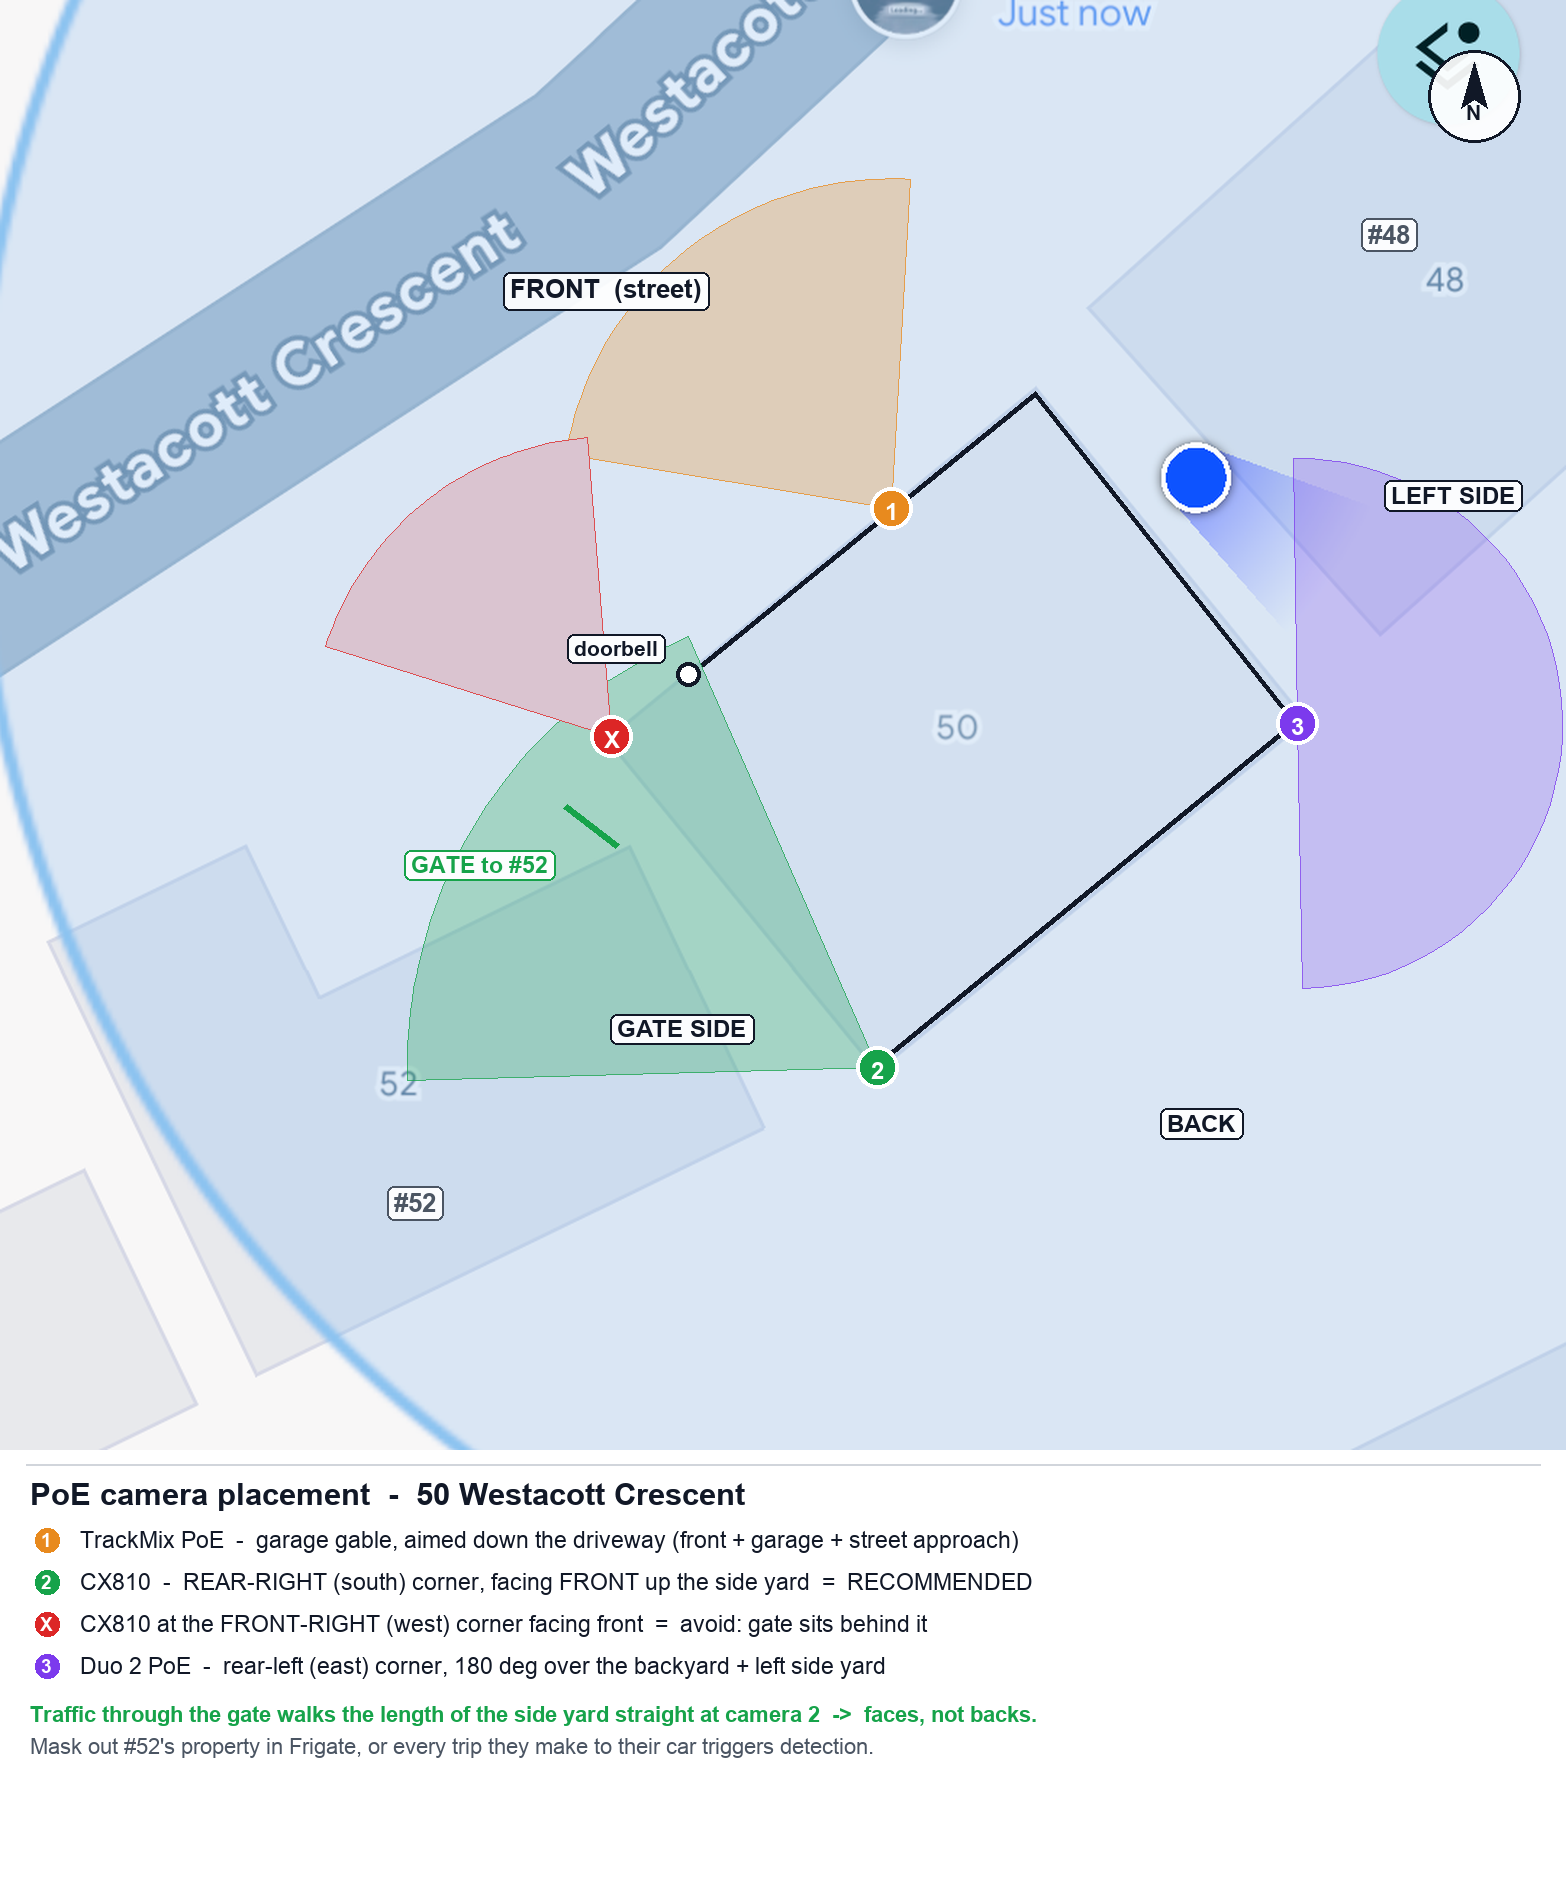
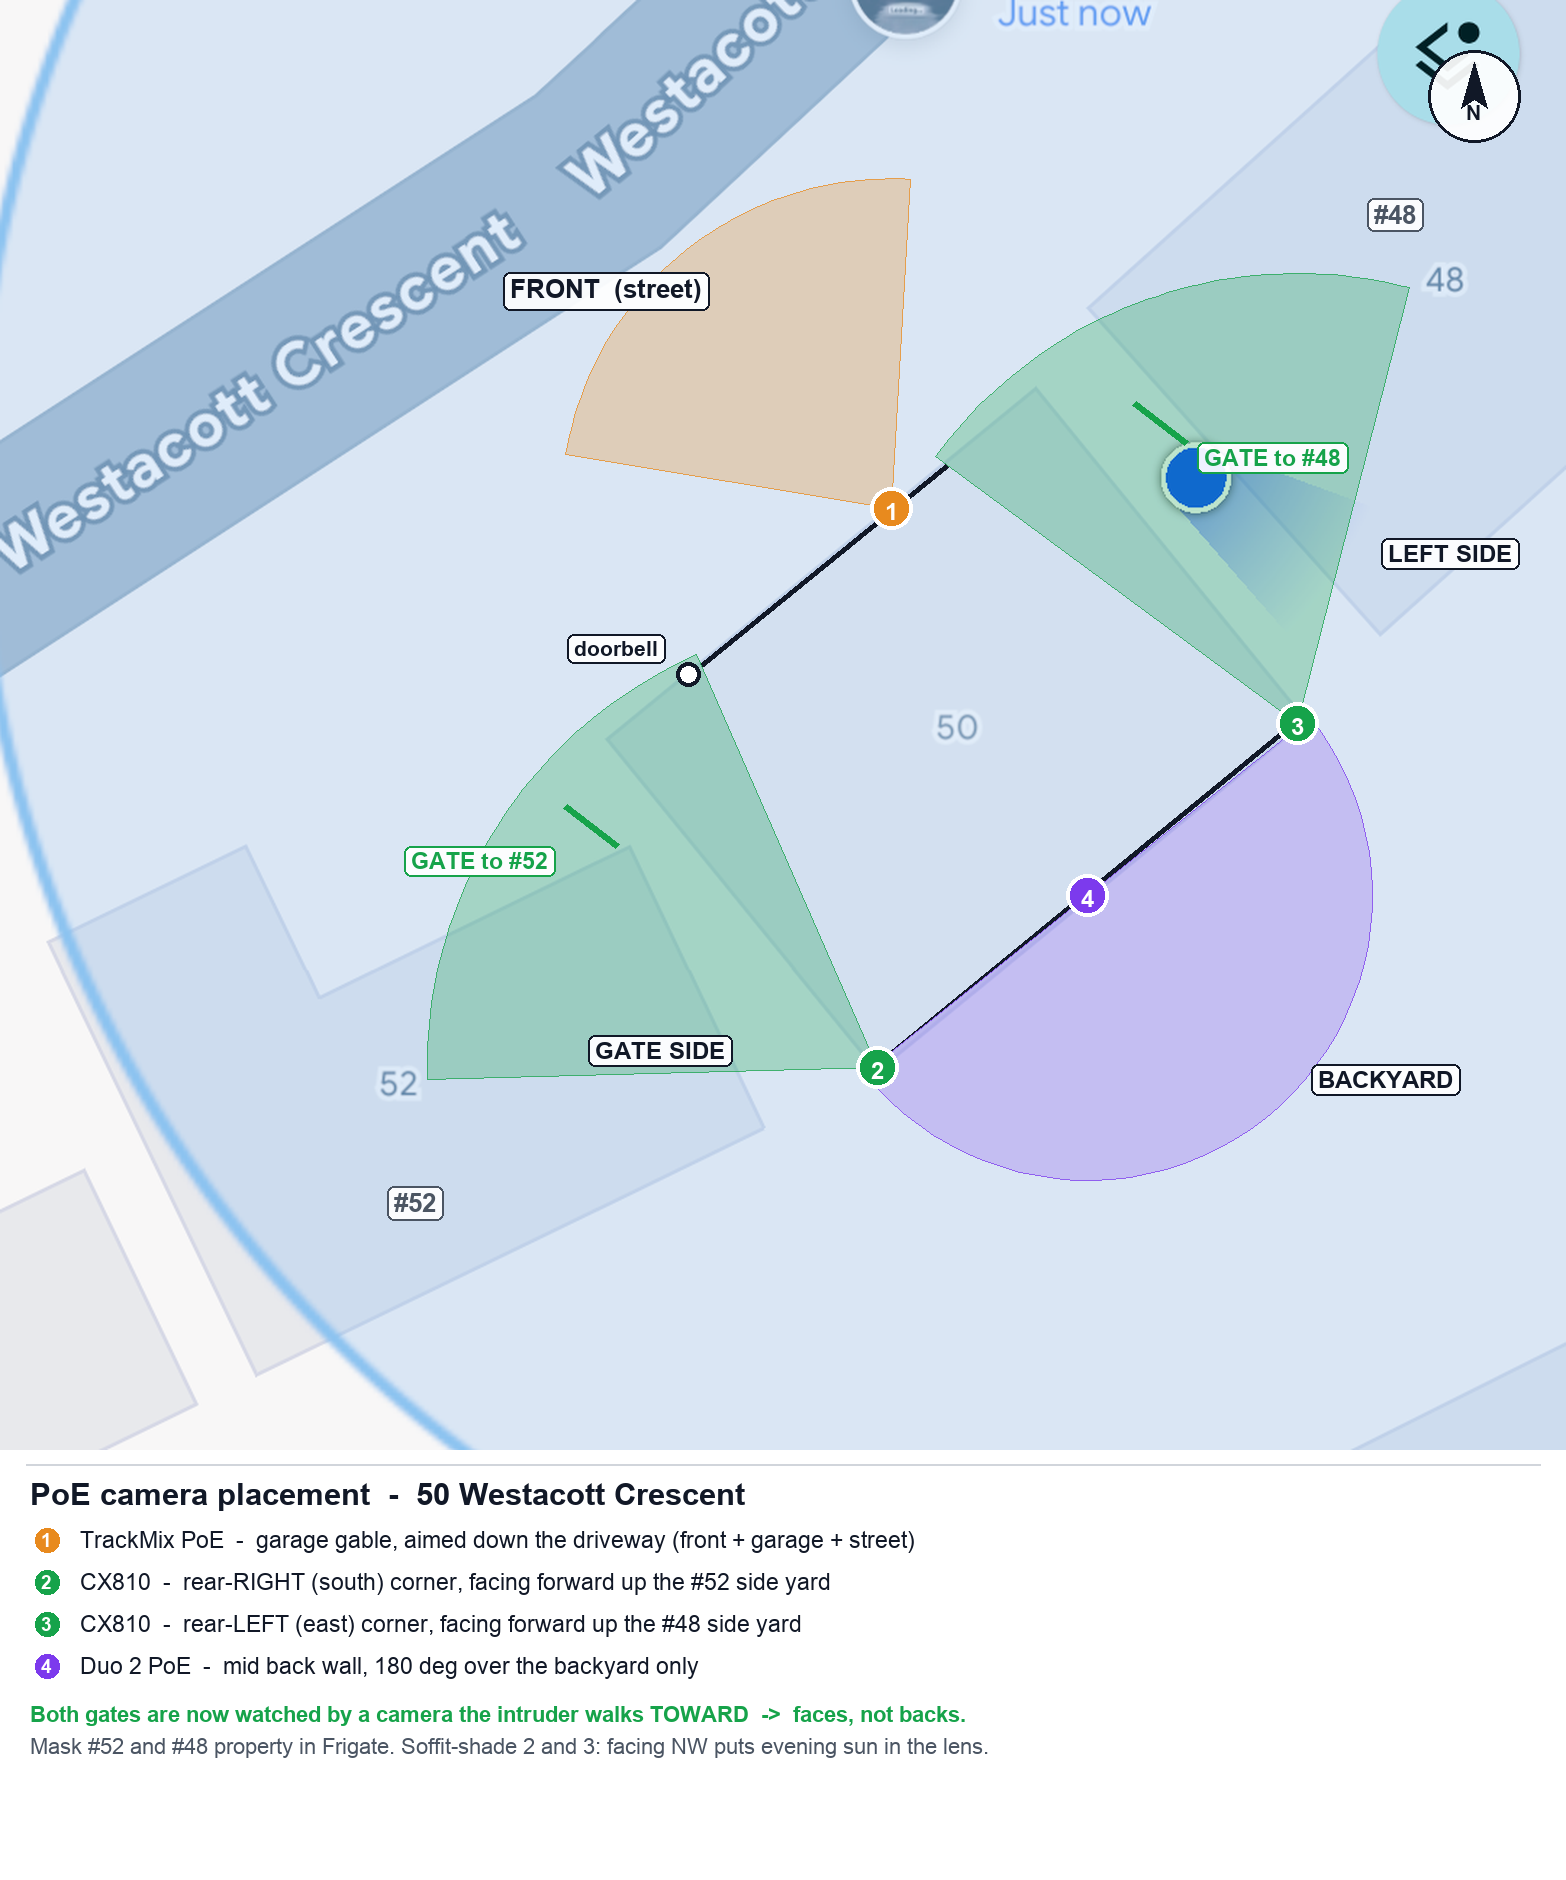
docs: add 4th camera (2nd CX810) now that both side yards have gates
The #48 side has a gate too, so both side yards are real routes to the
backyard. Previously only one had a capture camera and the other was
covered by the Duo's oblique flank -- a panoramic is the worst tool for
a narrow corridor and the best for an open yard.

Adding CX810 #2 at the rear-left corner is corrective rather than
additive: each unit now does one job well, both gates get a camera the
intruder walks toward, and the Duo moves to mid-back-wall covering only
the backyard. Closes the previously accepted left-side blind spot.
4 PoE cams + doorbell, ~$758.

diff --git a/docs/images/annotate-cameras.py b/docs/images/annotate-cameras.py
@@ -2,8 +2,14 @@
 """Annotate the top-down map of 50 Westacott with PoE camera placements.
 
 Footprint corners were extracted by flood-filling the Google Maps building
-polygon, so the FOV cones line up with the real walls rather than eyeballed
-positions. House is rotated ~39 deg, hence corners fall on compass N/E/S/W.
+polygon, so the FOV cones line up with real walls rather than eyeballed spots.
+The house sits ~39 deg off compass north, so its corners fall on N/E/S/W:
+  W = front-right   N = front-left   E = rear-left   S = rear-right
+
+FINAL 4-CAMERA LAYOUT: both side yards have gates (to #52 and to #48), so each
+gets a dedicated capture camera at the rear corner facing FORWARD -- traffic
+through either gate walks the length of the corridor into the lens. That frees
+the Duo 2 off the corner to cover the backyard alone.
 """
 import math
 from PIL import Image, ImageDraw, ImageFont
@@ -11,18 +17,16 @@ from PIL import Image, ImageDraw, ImageFont
 SRC = "/Users/naseer/.claude/uploads/836784c4-0e7e-4b33-84f7-66a67dbd904f/f0bb9562-89043.png"
 OUT = "/private/tmp/claude-501/-Users-naseer/836784c4-0e7e-4b33-84f7-66a67dbd904f/scratchpad/camera-placement.png"
 
-# Footprint corners in ORIGINAL image coords (from flood fill).
 CNR = {"W": (422, 978), "N": (714, 740), "E": (895, 969), "S": (605, 1206)}
 CENTRE = (659, 973)
 
-CROP = (0, 470, 1080, 1470)          # strip phone UI chrome + empty ground below
+CROP = (0, 470, 1080, 1470)
 SCALE = 1.45
 LEGEND_H = 430
 
 COL = {
     "trackmix": (232, 138, 30),
-    "good": (22, 163, 74),
-    "bad": (220, 38, 38),
+    "cx": (22, 163, 74),
     "duo": (124, 58, 237),
     "ink": (17, 24, 39),
     "muted": (75, 85, 99),
@@ -44,7 +48,6 @@ def font(size, bold=False):
 
 
 def tx(p):
-    """Original image coords -> annotated canvas coords."""
     return ((p[0] - CROP[0]) * SCALE, (p[1] - CROP[1]) * SCALE)
 
 
@@ -57,8 +60,11 @@ def lerp(a, b, t):
     return (a[0] + (b[0] - a[0]) * t, a[1] + (b[1] - a[1]) * t)
 
 
+def blend(a, b, wa, wb):
+    return unit((a[0] * wa + b[0] * wb, a[1] * wa + b[1] * wb))
+
+
 def cone(draw, apex, direction, half_deg, radius, colour, alpha=70, steps=48):
-    """Filled field-of-view wedge."""
     base = math.atan2(direction[1], direction[0])
     pts = [apex]
     for i in range(steps + 1):
@@ -84,6 +90,13 @@ def tag(draw, xy, text, colour, size=25, anchor="lt", pad=7):
     draw.text(xy, text, font=f, fill=colour + (255,), anchor=anchor)
 
 
+def gate_mark(draw, pos, label, side):
+    draw.line([pos[0] - 26, pos[1] - 20, pos[0] + 26, pos[1] + 20],
+              fill=COL["cx"] + (255,), width=7)
+    dx, anchor = (-44, "rt") if side == "left" else (44, "lt")
+    tag(draw, (pos[0] + dx, pos[1] + 26), label, COL["cx"], 23, anchor)
+
+
 def main():
     base = Image.open(SRC).convert("RGB").crop(CROP)
     base = base.resize((int(base.width * SCALE), int(base.height * SCALE)), Image.LANCZOS)
@@ -96,55 +109,50 @@ def main():
     W, N, E, S = (tx(CNR[k]) for k in ("W", "N", "E", "S"))
     centre = tx(CENTRE)
 
-    # ---- house outline ----
     d.polygon([W, N, E, S], fill=(255, 255, 255, 30), outline=COL["ink"] + (255,), width=5)
 
-    # ---- outward directions ----
-    n_front = unit((-91, -114))     # NW, toward the street
-    n_gate = unit((-146, 119))      # SW, toward #52 / the gate
-    along_sw = unit((W[0] - S[0], W[1] - S[1]))   # S -> W, up the side yard
+    n_front = unit((-91, -114))     # NW, to the street
+    n_gate52 = unit((-146, 119))    # SW, to #52
+    n_gate48 = unit((145, -119))    # NE, to #48
+    n_back = unit((91, 114))        # SE, backyard
 
-    # ---- 1. TrackMix: front face at the garage, aimed down the driveway ----
+    along_sw = unit((W[0] - S[0], W[1] - S[1]))   # S -> W, up the #52 side yard
+    along_ne = unit((N[0] - E[0], N[1] - E[1]))   # E -> N, up the #48 side yard
+
+    # 1 TrackMix -- front face at the garage, down the driveway
     tm = lerp(W, N, 0.66)
     cone(d, tm, n_front, 42, 330, COL["trackmix"])
 
-    # ---- 2a. CX810 RECOMMENDED: rear-right (S) corner, up the side yard ----
-    aim_good = unit((along_sw[0] * 0.88 + n_gate[0] * 0.30,
-                     along_sw[1] * 0.88 + n_gate[1] * 0.30))
-    cone(d, S, aim_good, 34, 470, COL["good"])
+    # 2 CX810 -- rear-RIGHT (S) corner, forward up the #52 side yard
+    cone(d, S, blend(along_sw, n_gate52, 0.88, 0.30), 34, 450, COL["cx"])
 
-    # ---- 2b. CX810 NOT THIS: front-right (W) corner facing the front ----
-    cone(d, W, n_front, 34, 300, COL["bad"], alpha=45)
+    # 3 CX810 -- rear-LEFT (E) corner, forward up the #48 side yard
+    cone(d, E, blend(along_ne, n_gate48, 0.88, 0.30), 34, 450, COL["cx"])
 
-    # ---- 3. Duo 2: rear-left (E) corner, 180 deg over back + left side ----
-    cone(d, E, unit((E[0] - centre[0], E[1] - centre[1])), 90, 265, COL["duo"], alpha=60)
+    # 4 Duo 2 -- mid BACK wall, 180 deg over the backyard only
+    duo = lerp(E, S, 0.5)
+    cone(d, duo, n_back, 90, 285, COL["duo"], alpha=60)
 
-    # ---- markers ----
     marker(d, tm, "1", COL["trackmix"])
-    marker(d, S, "2", COL["good"])
-    marker(d, W, "X", COL["bad"])
-    marker(d, E, "3", COL["duo"])
+    marker(d, S, "2", COL["cx"])
+    marker(d, E, "3", COL["cx"])
+    marker(d, duo, "4", COL["duo"])
 
-    # doorbell + gate
     db = lerp(W, N, 0.18)
     d.ellipse([db[0] - 12, db[1] - 12, db[0] + 12, db[1] + 12],
               fill=(255, 255, 255, 255), outline=COL["ink"] + (255,), width=4)
 
-    gate = tx((408, 1040))
-    d.line([gate[0] - 26, gate[1] - 20, gate[0] + 26, gate[1] + 20],
-           fill=COL["good"] + (255,), width=7)
-    tag(d, (gate[0] - 44, gate[1] + 30), "GATE to #52", COL["good"], 23, "rt")
+    gate_mark(d, tx((408, 1040)), "GATE to #52", "left")
+    gate_mark(d, tx((800, 762)), "GATE to #48", "right")
 
-    # ---- face labels ----
-    tag(d, lerp(tx((568, 859)), tx((568 - 150, 859 - 190)), 1.0), "FRONT  (street)", COL["ink"], 26, "mm")
-    tag(d, tx((470, 1180)), "GATE SIDE", COL["ink"], 24, "mm")
-    tag(d, tx((828, 1245)), "BACK", COL["ink"], 24, "mm")
-    tag(d, tx((1002, 812)), "LEFT SIDE", COL["ink"], 24, "mm")
+    tag(d, tx((418, 669)), "FRONT  (street)", COL["ink"], 26, "mm")
+    tag(d, tx((455, 1195)), "GATE SIDE", COL["ink"], 24, "mm")
+    tag(d, tx((955, 1215)), "BACKYARD", COL["ink"], 24, "mm")
+    tag(d, tx((1000, 852)), "LEFT SIDE", COL["ink"], 24, "mm")
     tag(d, tx((286, 1300)), "#52", COL["muted"], 26, "mm")
-    tag(d, tx((958, 632)), "#48", COL["muted"], 26, "mm")
+    tag(d, tx((962, 618)), "#48", COL["muted"], 26, "mm")
     tag(d, (db[0] - 30, db[1] - 18), "doorbell", COL["ink"], 21, "rb")
 
-    # ---- compass ----
     cx, cy = canvas.width - 92, 96
     d.ellipse([cx - 46, cy - 46, cx + 46, cy + 46], fill=(255, 255, 255, 235),
               outline=COL["ink"] + (255,), width=3)
@@ -154,7 +162,6 @@ def main():
 
     canvas = Image.alpha_composite(canvas.convert("RGBA"), ov).convert("RGB")
 
-    # ---- legend ----
     d2 = ImageDraw.Draw(canvas)
     y = base.height + 26
     d2.line([26, y - 12, canvas.width - 26, y - 12], fill=(209, 213, 219), width=2)
@@ -162,10 +169,10 @@ def main():
             font=font(31, True), fill=COL["ink"])
     y += 46
     rows = [
-        (COL["trackmix"], "1", "TrackMix PoE  -  garage gable, aimed down the driveway (front + garage + street approach)"),
-        (COL["good"], "2", "CX810  -  REAR-RIGHT (south) corner, facing FRONT up the side yard  =  RECOMMENDED"),
-        (COL["bad"], "X", "CX810 at the FRONT-RIGHT (west) corner facing front  =  avoid: gate sits behind it"),
-        (COL["duo"], "3", "Duo 2 PoE  -  rear-left (east) corner, 180 deg over the backyard + left side yard"),
+        (COL["trackmix"], "1", "TrackMix PoE  -  garage gable, aimed down the driveway (front + garage + street)"),
+        (COL["cx"], "2", "CX810  -  rear-RIGHT (south) corner, facing forward up the #52 side yard"),
+        (COL["cx"], "3", "CX810  -  rear-LEFT (east) corner, facing forward up the #48 side yard"),
+        (COL["duo"], "4", "Duo 2 PoE  -  mid back wall, 180 deg over the backyard only"),
     ]
     for colour, key, text in rows:
         d2.ellipse([32, y + 3, 32 + 30, y + 33], fill=colour, outline=(255, 255, 255), width=3)
@@ -173,10 +180,10 @@ def main():
         d2.text((80, y + 5), text, font=font(23), fill=COL["ink"])
         y += 42
     d2.text((30, y + 12),
-            "Traffic through the gate walks the length of the side yard straight at camera 2  ->  faces, not backs.",
-            font=font(22, True), fill=COL["good"])
+            "Both gates are now watched by a camera the intruder walks TOWARD  ->  faces, not backs.",
+            font=font(22, True), fill=COL["cx"])
     d2.text((30, y + 44),
-            "Mask out #52's property in Frigate, or every trip they make to their car triggers detection.",
+            "Mask #52 and #48 property in Frigate. Soffit-shade 2 and 3: facing NW puts evening sun in the lens.",
             font=font(22), fill=COL["muted"])
 
     canvas.save(OUT)

diff --git a/home-server-smart-home-plan.md b/home-server-smart-home-plan.md
@@ -368,12 +368,12 @@ continuous recordings, media, backups -- lives on the NAS, see 6.7. No internal 
 | Item | Qty | Est. each | Est. total | Notes |
 |------|-----|-----------|------------|-------|
 | Reolink TrackMix PoE -- FRONT: garage gable, down the driveway | 1 | $190 | $190 | REVISED 2026-07-21 (was TrackMix WiFi). Dual-lens: WIDE (fixed) + TELE (pan/tilt, camera-native auto-track). Rated S TIER in independent PoE testing. Goes on the highest-traffic zone -- driveway, both garage doors, street approach -- where auto-tracking actually earns its keep. Wide lens holds the full scene continuously while the tele swings/zooms for face + plate. In Frigate = TWO cameras via go2rtc (see notes) |
-| Reolink CX810 -- FRONT-RIGHT corner: SIDE GATE | 1 | $129 | $129 | The static front cam. ColorX sensor (F1.0, 1/1.8") = TRUE COLOUR night video from ambient light alone, plus notably less motion smearing at night -- the right trade for a dark side yard where the job is NIGHT IDENTIFICATION at a choke point. A TIER. Spotlight + siren. Mount at the REAR-RIGHT (south) corner aimed FORWARD up the side yard -- traffic through the gate walks the full corridor INTO the lens (faces, not backs). Alt if tighter framing wanted: RLC-843A (A tier, 5x varifocal, best pure detail -- but weaker in the dark) |
-| Reolink Duo 2 PoE -- REAR corner: backyard + left side yard | 1 | $190 | $190 | 180 deg panoramic, A TIER, the recommended tool for WIDE coverage. Corner-mounted it covers TWO faces of the house (backyard + left side yard) -- this is what closes the left-side gap without a 4th camera. Coverage cam: its job is "someone is in the yard", not ID -- anyone reaching it already passed the CX810 at the gate where the identifying shot was taken. NOTE: do NOT substitute the Duo 3 PoE (see models-to-avoid) |
+| Reolink CX810 -- REAR-RIGHT + REAR-LEFT corners: THE TWO SIDE-YARD GATES | 2 | $129 | $258 | REVISED 2026-07-21: qty 1 -> 2. BOTH side yards have gates (to #52 AND to #48), so both are real routes to the backyard and each gets its own capture cam (see layout note). ColorX sensor (F1.0, 1/1.8") = TRUE COLOUR night video from ambient light alone, plus notably less motion smearing at night -- the right trade for a dark side yard where the job is NIGHT IDENTIFICATION at a choke point. A TIER. Spotlight + siren. Mount at the REAR-RIGHT (south) corner aimed FORWARD up the side yard -- traffic through the gate walks the full corridor INTO the lens (faces, not backs). Alt if tighter framing wanted: RLC-843A (A tier, 5x varifocal, best pure detail -- but weaker in the dark) |
+| Reolink Duo 2 PoE -- MID BACK WALL: the backyard | 1 | $190 | $190 | 180 deg panoramic, A TIER, the recommended tool for WIDE coverage. MOVED 2026-07-21 off the rear-left corner to the middle of the back wall: with a CX810 now on each side yard, the Duo no longer has to double as the left-side cam and its 180 deg is spent entirely on the backyard. (A panoramic is the WORST tool for a narrow corridor -- oblique angle, low pixel density -- and the best for an open yard; the 4th camera let each unit do ONE job well.) Coverage cam: its job is "someone is in the yard", not ID -- anyone reaching it already passed a CX810 at a gate where the identifying shot was taken. NOTE: do NOT substitute the Duo 3 PoE (see models-to-avoid) |
 | Wi-Fi video doorbell -- FRONT DOOR (RTSP) | 1 | $100 | $100 | Reolink Video Doorbell WiFi -- REPLACES the existing NuTone intercom DOOR STATION. RTSP + Frigate + two-way talk. Replaces the planned PoE doorbell (no Ethernet to the front). Power: existing doorbell transformer if 12-24V AC present, else a plug-in transformer off the soffit outlet OR the battery version |
 | NuTone-intercom doorbell adapter plate | 1 | $20 | $20 | Covers the old NuTone door-station cutout + mounts the Reolink. Kyle Switch Plates / DoorBell Mount (custom for Reolink), or a blank oversize plate + Reolink backplate. MEASURE the box screw spacing first (4/4.5/5.25/6.25/6.58") |
 | Wi-Fi PTZ auto-track cam (RTSP) -- wide area | 1 | $170 | $170 | Reolink TrackMix WiFi (dual-lens: wide + telephoto, camera-native auto-track). COMPLEMENTS the fixed cams (don't let it replace an entry cam -- PTZ may be panned away). In Frigate = TWO cameras via go2rtc: WIDE (h265Preview_01) = detect + full-scene record; TELE (h264Preview_02) = auto-tracked close-up record. Use CAMERA-NATIVE tracking, NOT Frigate onvif_autotrack (Reolink ONVIF flaky). HIGH Wi-Fi load (2 lenses) -> needs a strong AP; get TrackMix POE if the spot can be wired (MoCA->injector) |
-| | | | **~$629** | 3 PoE cameras + doorbell (REVISED 2026-07-21, down from 5 cams / ~$720). Prices are estimates -- only the CX810 ($129) is confirmed; verify TrackMix PoE + Duo 2 PoE at purchase |
+| | | | **~$758** | 4 PoE cameras + doorbell (REVISED 2026-07-21: 5 Wi-Fi cams ~$720 -> 3 PoE ~$629 -> 4 PoE ~$758 once the second gate was confirmed). Prices are estimates -- only the CX810 ($129) is confirmed; verify TrackMix PoE + Duo 2 PoE at purchase |
 
 Camera notes (Frigate):
 - Reolink works but its RTSP is finicky and some models cap simultaneous connections -> always
@@ -418,11 +418,17 @@ Camera notes (Frigate):
      SUN: facing NW puts the low EVENING summer sun into the lens, which is prime event time.
      Mount tight under the soffit so the eave shades it, and tilt down so sky is out of frame
      (the CX810's HDR covers the rest).
-  3. Duo 2 PoE -> rear-LEFT corner (diagonal opposite of #2): backyard + left side yard.
-  The doorbell owns the front door, which is what frees both front cameras from watching it and
-  makes 3 viable at all.
-  ACCEPTED BLIND SPOT: the FRONT portion of the LEFT side yard (the rear cam sees its back half,
-  not the street end). Narrow, overlooked by the neighbour -- the natural spot for a 4th cam later.
+  3. CX810 #2 -> rear-LEFT (EAST) corner, aimed FORWARD/NW up the LEFT side yard toward the gate
+     to #48. Exact mirror of #2. ADDED 2026-07-21 once the #48-side gate was confirmed.
+  4. Duo 2 PoE -> MID BACK WALL, 180 deg over the backyard only.
+  The doorbell owns the front door, which frees the front cameras from having to watch it.
+  WHY THE 4th CAMERA EARNS ITS PLACE (it is corrective, not additive): with 3 cams the Duo was
+  doing TWO jobs at once -- backyard AND left side yard from an oblique angle. A 180 deg panoramic
+  is the right tool for an open yard and the WORST for a narrow corridor (low pixel density,
+  distorted geometry, objects tiny in frame). So the weakest-covered approach in the whole design
+  was a real gate. Adding CX810 #2 means every unit does ONE job well: both gates get a capture cam
+  the intruder walks TOWARD, and the Duo's panorama is spent entirely on the yard.
+  BLIND SPOT: none material. The earlier "front portion of the left side yard" gap is CLOSED.
   MOUNT HEIGHTS: TrackMix high on the gable is fine (its tele lens compensates), but mount the
   CX810 LOWER (~8-9 ft) -- a fixed camera mounted too high sees the tops of heads, and it has no
   zoom to make up for it. 9-10 ft under soffit/eave elsewhere: weather protection, tamper height,
